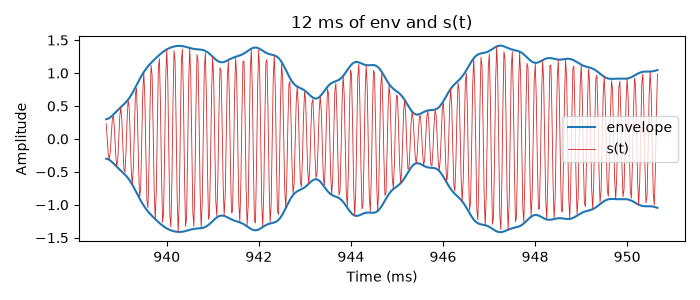
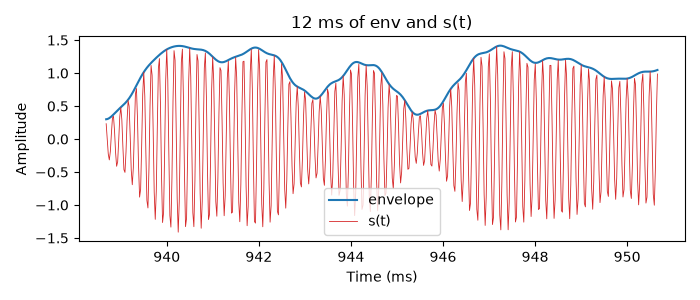
updated the 12ms comparison

diff --git a/Lab_5/Python/bonus.py b/Lab_5/Python/bonus.py
@@ -50,6 +50,8 @@ m1 = m1 / np.max(np.abs(m1))
 env = 1 + mu*m1 #envelope
 s = env * np.cos(2 * np.pi * fc * t) #transmitted signal
 
+print(np.min(env))
+
 n = int(fs * 0.012)
 
 plt.figure(figsize=(7, 3))
@@ -57,7 +59,6 @@ plt.figure(figsize=(7, 3))
 i0 = np.argmax(np.abs(m1))      
 seg = slice(i0, i0 + n)
 plt.plot(t[seg] * 1000, env[seg], label="envelope", color="tab:blue")
-plt.plot(t[seg] * 1000, -env[seg], color="tab:blue")
 plt.plot(t[seg] * 1000, s[seg], label="s(t)", lw=0.6, color="tab:red")
 plt.xlabel("Time (ms)")
 plt.ylabel("Amplitude")
